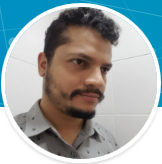
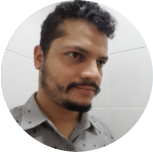
alteracao foto

diff --git a/index.html b/index.html
@@ -51,7 +51,7 @@
         <div class="row">
             <div class="col-md-5" style="background-color: rgb(228, 232, 240); padding: 80px 40px 0px 40px;">
                 <div style="text-align: center;">
-                    <img class="rounded-circle" src="artur_avatar.jpg" style="max-width: 140px;">
+                    <img class="rounded-circle" src="avatar2.png" style="max-width: 140px;">
                 </div>
                 <h2 style="padding-top: 20px;" class='text-center'><strong>ARTUR V SOUSA</strong></h2>
                 <h6 style="padding: 20px 0 20px;"><i>Data Scientist with a solid marketing and business background</i></h6>
